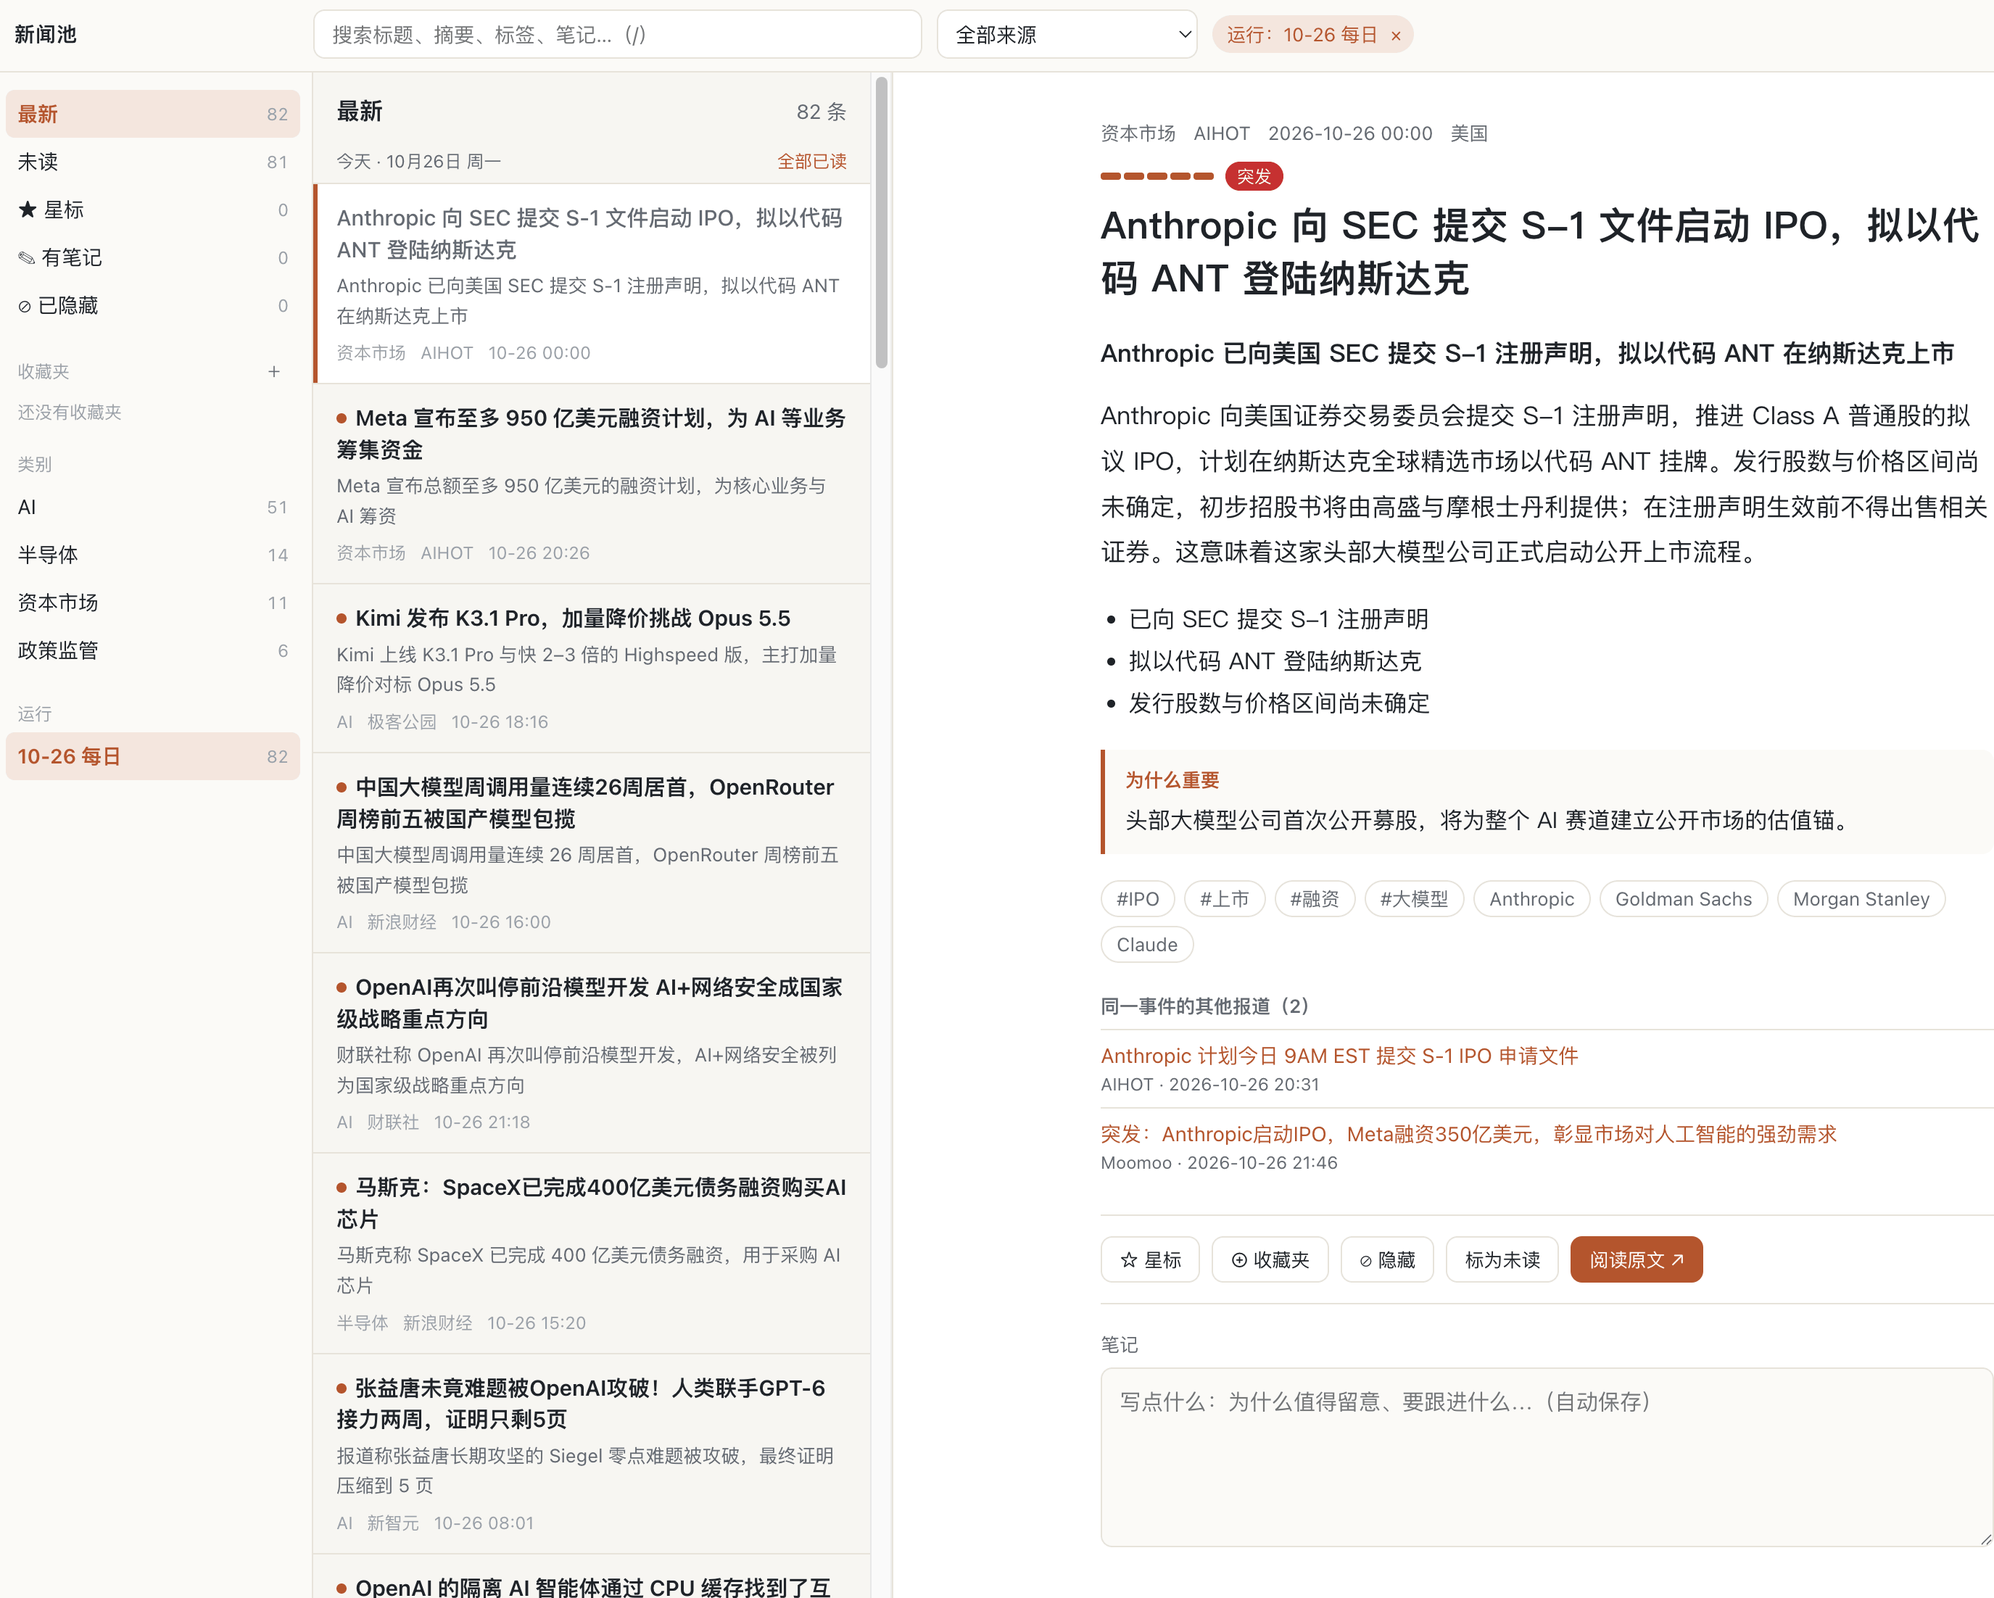
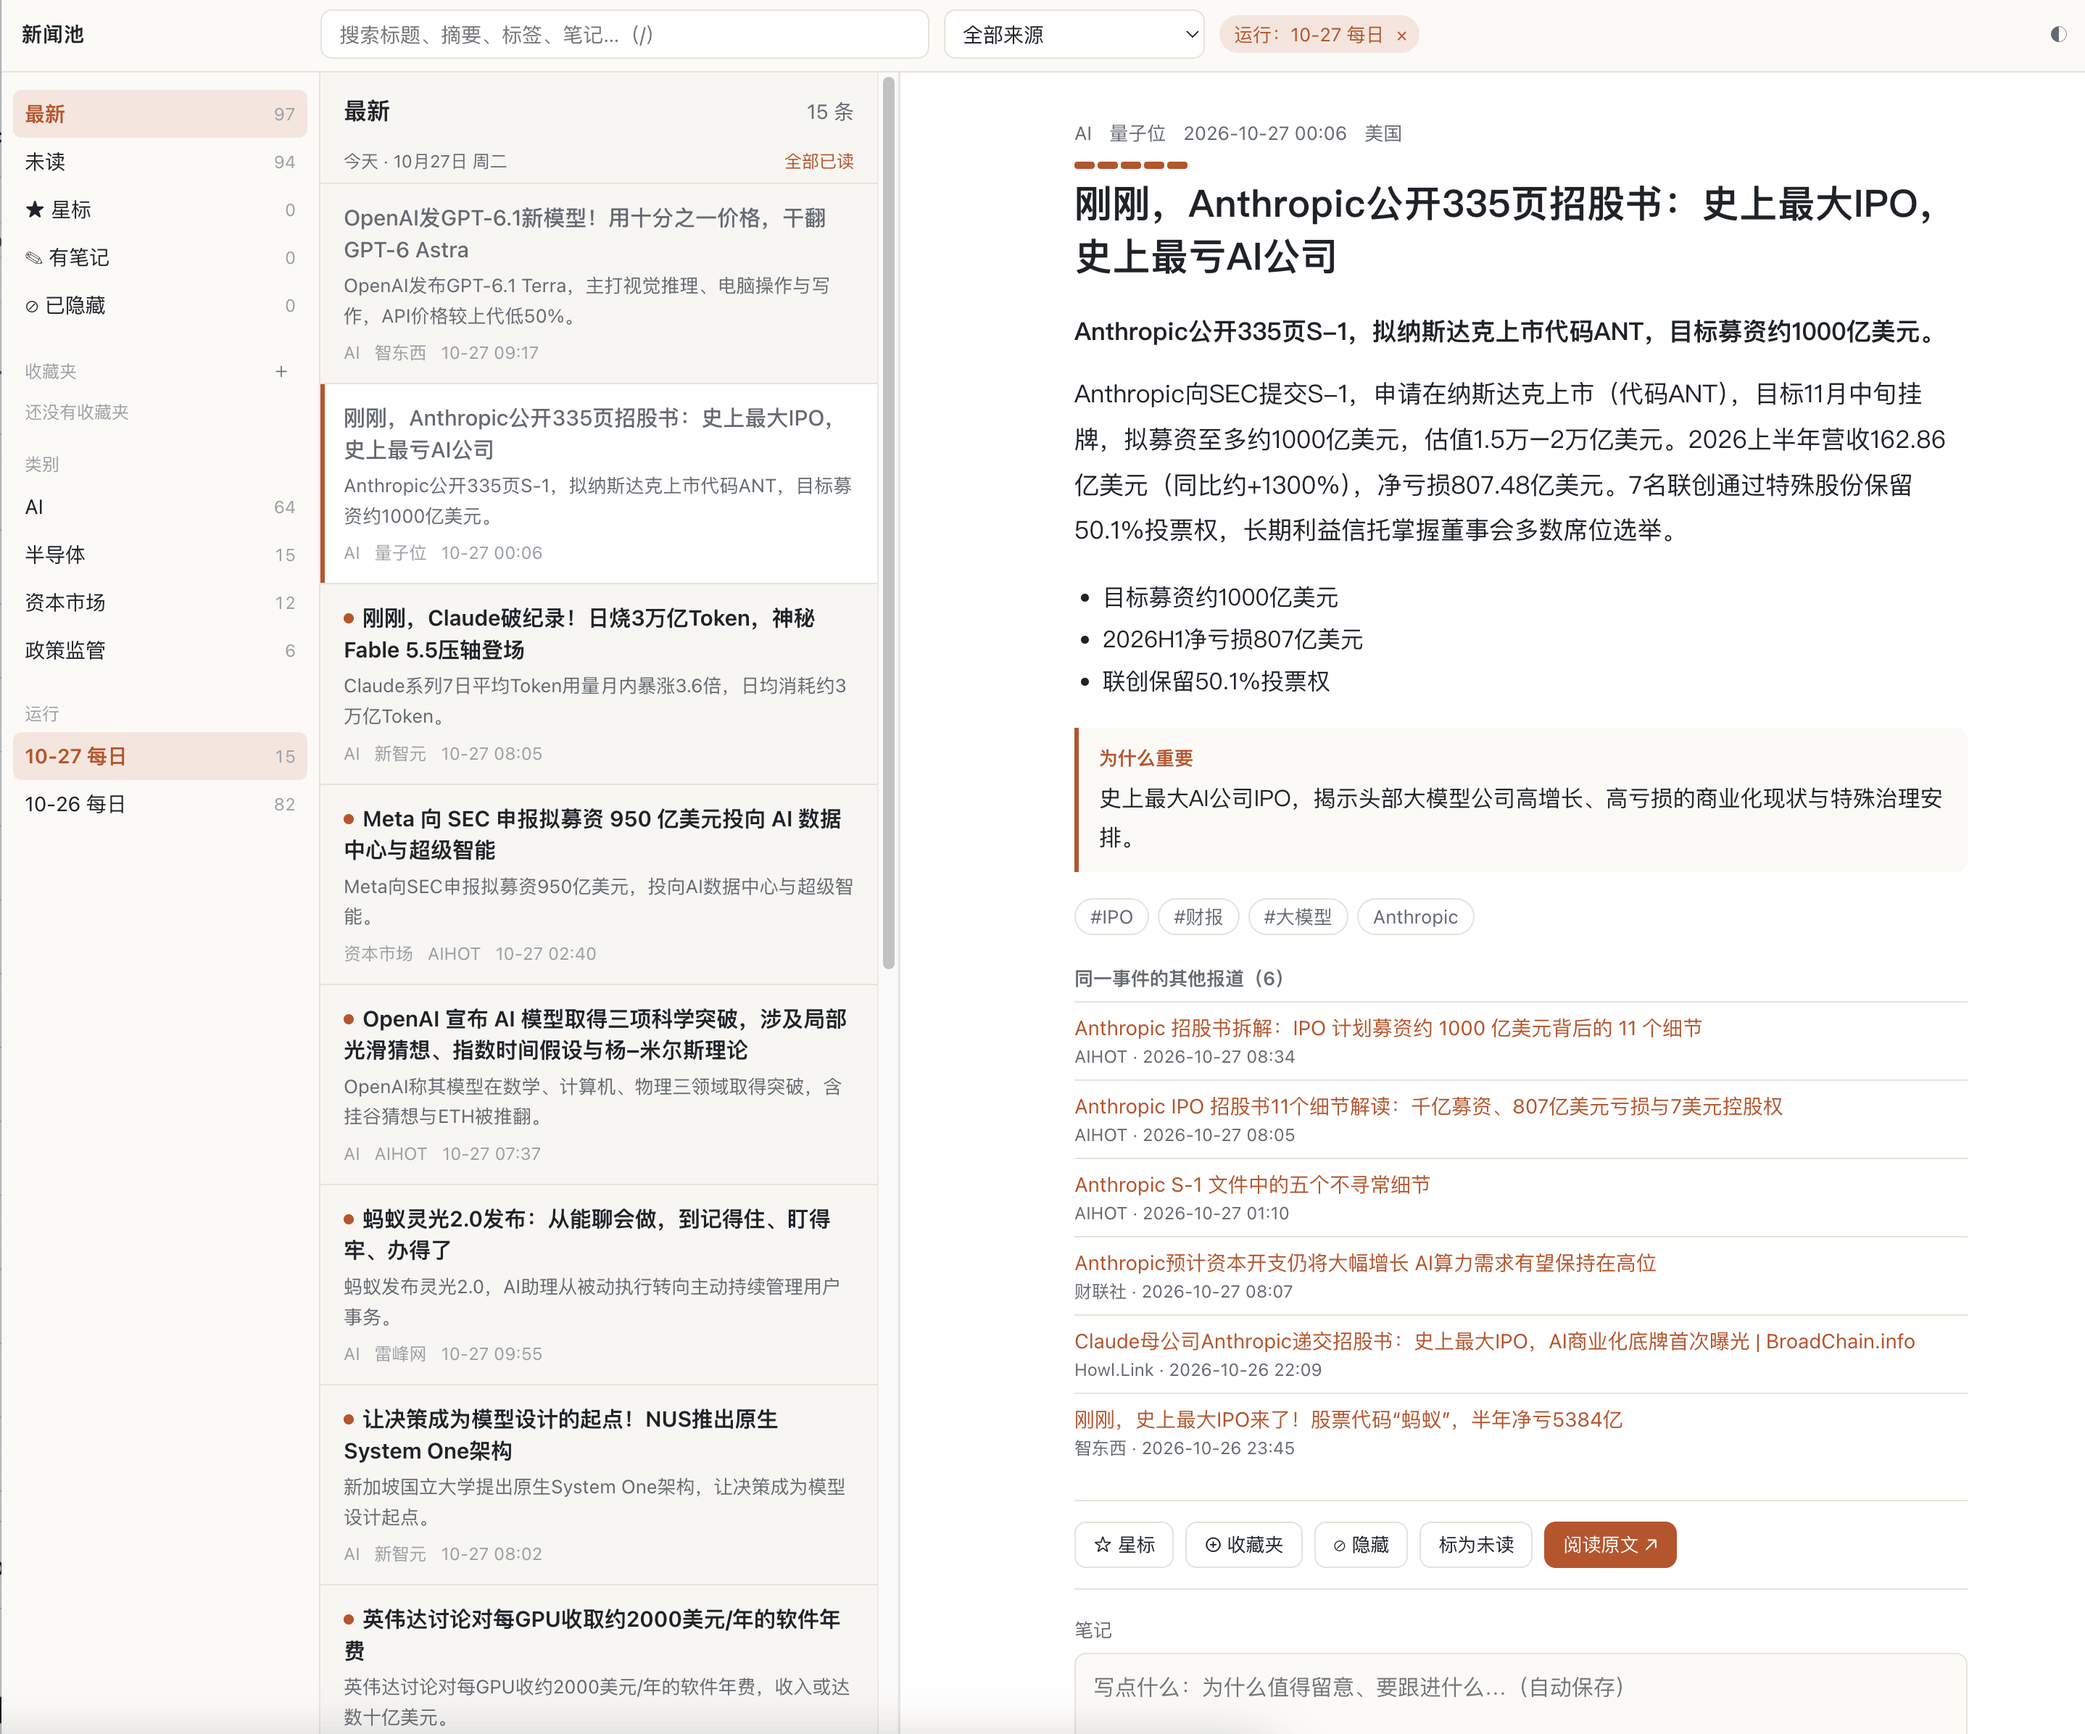
更新 README 截图和开头的介绍，去掉从两个 skill 升级的说明
- 换新截图：browser.png 更新，agent.png 替换 digest.png 和 view.png
- README 开头改成「替你筛选新闻」，英文版同步
- 删掉「从两个 skill 升级」一节（中英文）
- test_cli_core 不再检查 SKILL.md 里没有旧的 skill 名

diff --git a/tests/test_cli_core.py b/tests/test_cli_core.py
@@ -105,4 +105,3 @@ def test_skill_md_quotes_the_message_check_prints() -> None:
     assert "kept events still have no text" in skill  # leads 的输出
     assert "next: open the viewer" in skill  # finalize 和空运行的 prepare 的最后一行
     assert "[nv] url:" in skill and "no news pool" in skill  # nv.py up 的输出
-    assert "news-digest" not in skill and "news-viewer" not in skill  # 已经合成一个 skill

diff --git a/README.en.md b/README.en.md
@@ -1,6 +1,6 @@
 # news-pool
 
-**Let the AI agent you already pay for (Codex, Claude Code, WorkBuddy…) read the news for you every day.** It pulls stories from feeds and news search, drops what you don't care about, merges duplicate coverage, ranks by importance and writes a summary for each story. The results are saved as local files that you read in your browser. The whole pipeline runs inside the agent on your existing subscription: **no API key, no pay-per-use billing.**
+**Let the AI agent you already pay for (Codex, Claude Code, WorkBuddy…) sift through the news for you every day.** It pulls stories from feeds and news search, drops what you don't care about, merges duplicate coverage, ranks by importance and writes a summary for each story. The results are saved as local files that you read in your browser. The whole pipeline runs inside the agent on your existing subscription: **no API key, no pay-per-use billing.**
 
 [![CI](https://github.com/lxucs/news-pool/actions/workflows/ci.yml/badge.svg)](https://github.com/lxucs/news-pool/actions/workflows/ci.yml)
 [![License: MIT](https://img.shields.io/badge/license-MIT-blue.svg)](LICENSE)
@@ -10,7 +10,7 @@
 
 [中文](README.md) | English
 
-<img src="docs/images/browser.png" width="600" alt="The reader: today's stories on the left, one opened on the right">
+<img src="docs/images/browser.png" width="800" alt="The reader: today's stories on the left, one opened on the right">
 
 > The skill, summaries and reader UI are in Chinese: the project is built for Chinese-language news and Chinese readers. The pipeline itself is language-neutral, and English sources are summarized in Chinese.
 
@@ -46,9 +46,7 @@ None of them fits? Tell the agent what you care about (EVs, the NBA, drug develo
 
 ## What it looks like
 
-<img src="docs/images/digest.png" width="600" alt="Asking the agent in WorkBuddy for today's AI news; it reports the run and the top 5">
-
-<img src="docs/images/view.png" width="600" alt="The agent opens the reader">
+<img src="docs/images/agent.png" width="600" alt="Asking the agent in WorkBuddy for today's AI news; it reports the run">
 
 In the reader, stories are grouped by the day they were fetched, most important first. Each one has a Chinese title, a one-line summary, a short synopsis, three key points and the other coverage of the same event. You can search; filter by category, tag or source; and star, hide, annotate or collect stories. There is a dark mode, `j` / `k` move between stories, and `?` lists every shortcut.
 
@@ -94,14 +92,6 @@ ln -s "$PWD/news-pool" ~/.workbuddy/skills/
 For other harnesses, put it in that harness's skills directory; copying works too. With a manual install, `git pull` updates it.
 
 Fetching needs network access, so a sandboxed harness (Codex, for example) may ask you to allow it, and sources such as Google News need a network that can reach them. The reader only listens on 127.0.0.1.
-
-### Upgrading from two skills
-
-Earlier versions were two skills, news-digest and news-viewer; they are now one skill, news-pool. Nothing in the pool (`~/.news-pool`) needs to change: your profile, stars and notes are all still there.
-
-- Plugin: run `claude plugin update news-pool@news-pool` in your terminal.
-- `npx skills`: run `npx skills add lxucs/news-pool` again, then delete the old `news-digest` and `news-viewer` from your skills directory, or the agent will keep using them.
-- Manual install: `git pull`, remove the two links to `news-digest` and `news-viewer` from your skills directory, and link `news-pool` with the command above.
 
 ## Use
 

diff --git a/README.md b/README.md
@@ -1,6 +1,6 @@
 # news-pool
 
-**让你已经在用的 AI agent（Codex、Claude Code、WorkBuddy……）每天替你读新闻。** 它从订阅源和新闻检索里抓取新闻，筛掉无关的，合并重复的，按重要性打分，写好中文摘要，存成本地文件，你在浏览器里阅读。整个流程都在 agent 里完成，用的是你已经订阅的套餐额度：**不需要 API key，不按量付费。**
+**让你已经在用的 AI agent（Codex、Claude Code、WorkBuddy……）每天替你筛选新闻。** 它从订阅源和新闻检索里抓取新闻，筛掉无关的，合并重复的，按重要性打分，写好中文摘要，存成本地文件，你在浏览器里阅读。整个流程都在 agent 里完成，用的是你已经订阅的套餐额度：**不需要 API key，不按量付费。**
 
 [![CI](https://github.com/lxucs/news-pool/actions/workflows/ci.yml/badge.svg)](https://github.com/lxucs/news-pool/actions/workflows/ci.yml)
 [![License: MIT](https://img.shields.io/badge/license-MIT-blue.svg)](LICENSE)
@@ -10,7 +10,7 @@
 
 中文 | [English](README.en.md)
 
-<img src="docs/images/browser.png" width="600" alt="阅读器：左边是收进来的新闻，右边是打开的一条">
+<img src="docs/images/browser.png" width="800" alt="阅读器：左边是收进来的新闻，右边是打开的一条">
 
 ## 为什么用这个 skill
 
@@ -44,9 +44,7 @@
 
 ## 用起来是什么样
 
-<img src="docs/images/digest.png" width="600" alt="在 WorkBuddy 里让 agent 找今天的 AI 新闻，它汇报运行结果和 Top 5">
-
-<img src="docs/images/view.png" width="600" alt="agent 打开阅读器">
+<img src="docs/images/agent.png" width="600" alt="在 WorkBuddy 里让 agent 找今天的 AI 新闻，它汇报运行结果">
 
 阅读器里，新闻按抓取日期分组，最重要的排在前面，每条都有中文标题、一句话摘要、展开的一段、三条要点和同一事件的其他报道。你可以搜索，按类别、标签、来源筛选，也可以星标、隐藏不感兴趣的、写笔记、整理收藏夹；有深色模式，用 `j` / `k` 翻条目，按 `?` 看全部快捷键。
 
@@ -92,14 +90,6 @@ ln -s "$PWD/news-pool" ~/.workbuddy/skills/
 其他 harness 放进各自的 skills 目录即可，复制也行。手动安装的，以后 `git pull` 就是更新。
 
 抓取需要联网，沙箱型的 harness（例如 Codex）可能会请你放行；Google News 等来源要有相应的网络环境。阅读器只监听 127.0.0.1。
-
-### 从两个 skill 升级
-
-以前的版本是 news-digest 和 news-viewer 两个 skill，现在合成了一个 news-pool。新闻池（`~/.news-pool`）里的东西都不用动：profile、星标、笔记都还在。
-
-- 插件：在终端里运行 `claude plugin update news-pool@news-pool`。
-- `npx skills`：重新运行 `npx skills add lxucs/news-pool`，再从 skills 目录里删掉旧的 `news-digest` 和 `news-viewer`，否则 agent 还会用到旧的那两个。
-- 手动安装：`git pull`，删掉 skills 目录里指向 `news-digest`、`news-viewer` 的两个链接，再按上面的命令链接 `news-pool`。
 
 ## 使用
 
